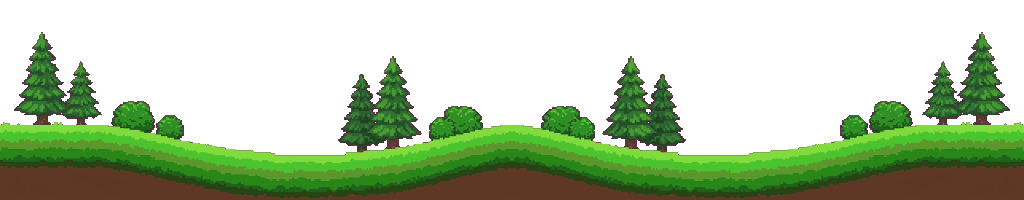
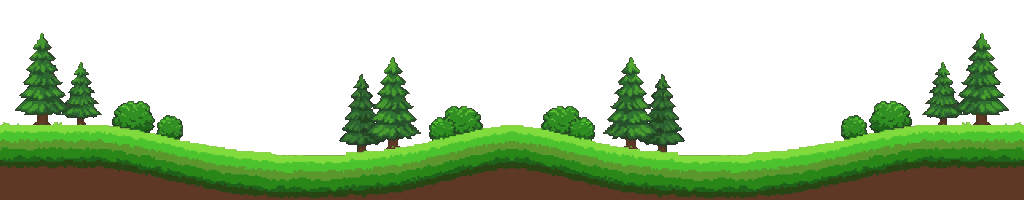
prep_art: key magenta by spill and despill the edges
The old key only caught near-pure magenta, so outline pixels the JPEG had
blended into the background stayed pinkish purple around the hills,
trees and the ship.

diff --git a/tools/prep_art.py b/tools/prep_art.py
@@ -37,15 +37,23 @@ def fit(img, w, h, anchor="centre"):
     return img.crop((x, y, x + w, y + h))
 
 
-def key_magenta(img):
-    """RGB -> RGBA with the magenta background transparent."""
+def key_magenta(img, cut=40):
+    """RGB -> RGBA with the magenta background transparent.
+
+    Spill = how far both red and blue exceed green; magenta has a lot, the
+    foreground none.  Pixels with spill above `cut' (the background and the
+    edge pixels the JPEG blended into it) become transparent; the rest lose
+    their spill, so no pink tint is left along the edges."""
     out = img.convert("RGBA")
     px = out.load()
     for y in range(out.height):
         for x in range(out.width):
             r, g, b, _ = px[x, y]
-            if r > 170 and b > 170 and g < 110:
+            spill = min(r, b) - g
+            if spill > cut:
                 px[x, y] = (0, 0, 0, 0)
+            elif spill > 0:
+                px[x, y] = (r - spill, g, b - spill, 255)
     return out
 
 
